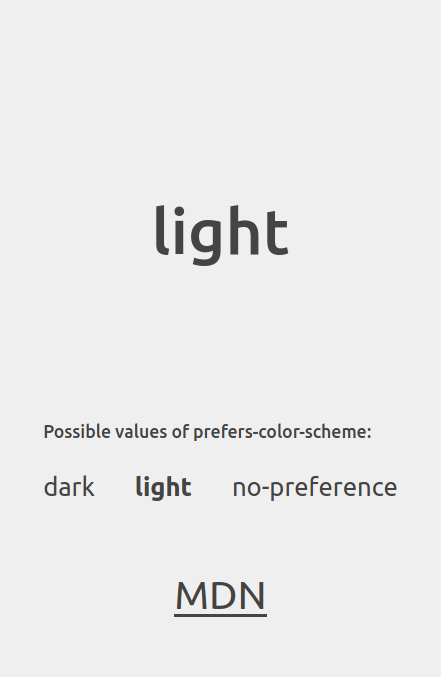
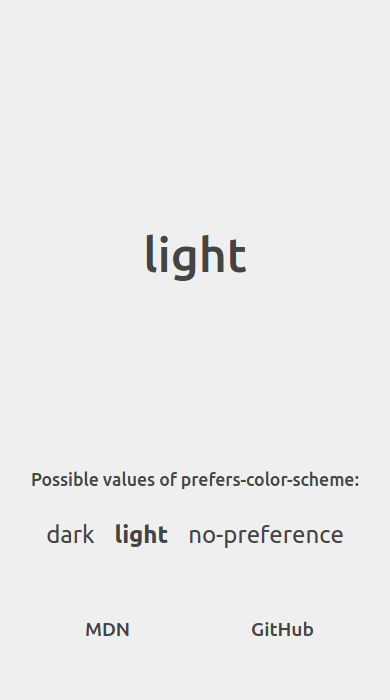
Add GitHub link and update previews
- Added underline to anchors only on hover and selection
- Renamed a few CSS classes for consistency
- Decreased large font sizes on small screens

diff --git a/assets/css/styles.css b/assets/css/styles.css
@@ -19,6 +19,12 @@ body {
 
 a {
   color: inherit;
+  text-decoration: none;
+}
+
+a:hover,
+a:focus,
+a:active {
   text-decoration: underline;
 }
 
@@ -28,7 +34,7 @@ a {
   justify-content: center;
   min-height: 100%;
   flex-direction: column;
-  padding: 40px 20px;
+  padding: 40px 25px;
 }
 
 .color-scheme__section {
@@ -48,40 +54,44 @@ a {
   display: initial;
 }
 
-.possible-values__section {
+.possible-color-schemes__section {
   margin-bottom: 40px;
 }
 
-.possible-values__title {
+.possible-color-schemes__title {
   font-size: 1.1rem;
   margin-bottom: 20px;
   font-weight: 500;
 }
 
-.possible-values {
+.possible-color-schemes__list {
   display: flex;
   list-style: none;
 }
 
-.color-scheme-value {
+.possible-color-scheme {
   font-size: 1.6rem;
   margin: 10px 0;
   font-weight: 400;
 }
 
-.color-scheme-value + .color-scheme-value {
+.possible-color-scheme + .possible-color-scheme {
   margin-left: 40px;
 }
 
 .footer {
   display: flex;
   justify-content: center;
-  flex-direction: column;
+  max-width: 440px;
+  width: 100%;
 }
 
-.footer-link {
-  padding: 20px 80px;
-  font-size: 2.5rem;
+.footer__link {
+  flex: 1;
+  padding: 20px 0;
+  text-align: center;
+  font-size: 1.2rem;
+  font-weight: 500;
 }
 
 @media (prefers-color-scheme: light) {
@@ -89,7 +99,7 @@ a {
     display: initial;
   }
 
-  .color-scheme-value--light {
+  .possible-color-scheme--light {
     font-weight: bold;
   }
 
@@ -98,19 +108,17 @@ a {
   }
 }
 
-@media (prefers-color-scheme: dark), (prefers-color-scheme: no-preference) {
+@media (prefers-color-scheme: dark) {
   body {
     color: #be5046;
     background-color: #282c34;
   }
-}
 
-@media (prefers-color-scheme: dark) {
   .color-scheme--dark {
     display: initial;
   }
 
-  .color-scheme-value--dark {
+  .possible-color-scheme--dark {
     font-weight: bold;
   }
 
@@ -120,15 +128,30 @@ a {
 }
 
 @media (prefers-color-scheme: no-preference) {
+  body {
+    color: #be5046;
+    background-color: #282c34;
+  }
+
   .color-scheme--no-preference {
     display: initial;
   }
 
-  .color-scheme-value--no-preference {
+  .possible-color-scheme--no-preference {
     font-weight: bold;
   }
 
   .color-scheme--not-supported {
     display: none;
+  }
+}
+
+@media (max-width: 470px) {
+  .color-scheme {
+    font-size: 3rem;
+  }
+
+  .possible-color-scheme + .possible-color-scheme {
+    margin-left: 20px;
   }
 }

diff --git a/index.html b/index.html
@@ -23,14 +23,20 @@
         </span>
       </section>
 
-      <section class="possible-values__section">
-        <h3 class="possible-values__title">
+      <section class="possible-color-schemes__section">
+        <h3 class="possible-color-schemes__title">
           Possible values of prefers-color-scheme:
         </h3>
-        <ul class="possible-values">
-          <li class="color-scheme-value color-scheme-value--dark">dark</li>
-          <li class="color-scheme-value color-scheme-value--light">light</li>
-          <li class="color-scheme-value color-scheme-value--no-preference">
+        <ul class="possible-color-schemes__list">
+          <li class="possible-color-scheme possible-color-scheme--dark">
+            dark
+          </li>
+          <li class="possible-color-scheme possible-color-scheme--light">
+            light
+          </li>
+          <li
+            class="possible-color-scheme possible-color-scheme--no-preference"
+          >
             no-preference
           </li>
         </ul>
@@ -38,10 +44,17 @@
 
       <footer class="footer">
         <a
-          class="footer-link"
+          class="footer__link"
           href="https://developer.mozilla.org/docs/Web/CSS/@media/prefers-color-scheme"
         >
           MDN
+        </a>
+
+        <a
+          class="footer__link"
+          href="https://github.com/Henriquetf/what-is-my-prefers-color-scheme"
+        >
+          GitHub
         </a>
       </footer>
     </div>

diff --git a/README.md b/README.md
@@ -20,10 +20,16 @@ JavaScript is not needed for it to work.
 <table>
   <tr>
     <td>
-      <img alt="Light" src="./.github/preview/prefers-color-scheme-light.png" width="330px">
+      <img alt="Light" src="./.github/preview/prefers-color-scheme-light.png" width="300px">
     </td>
     <td>
-      <img alt="Dark" src="./.github/preview/prefers-color-scheme-dark.png" width="330px">
+      <img alt="Dark" src="./.github/preview/prefers-color-scheme-dark.png" width="300px">
+    </td>
+    <td>
+      <img alt="Not supported" src="./.github/preview/prefers-color-scheme-not-supported.png" width="300px">
+    </td>
+    <td>
+      <img alt="No preference" src="./.github/preview/prefers-color-scheme-no-preference.png" width="300px">
     </td>
   </tr>
 <table>
